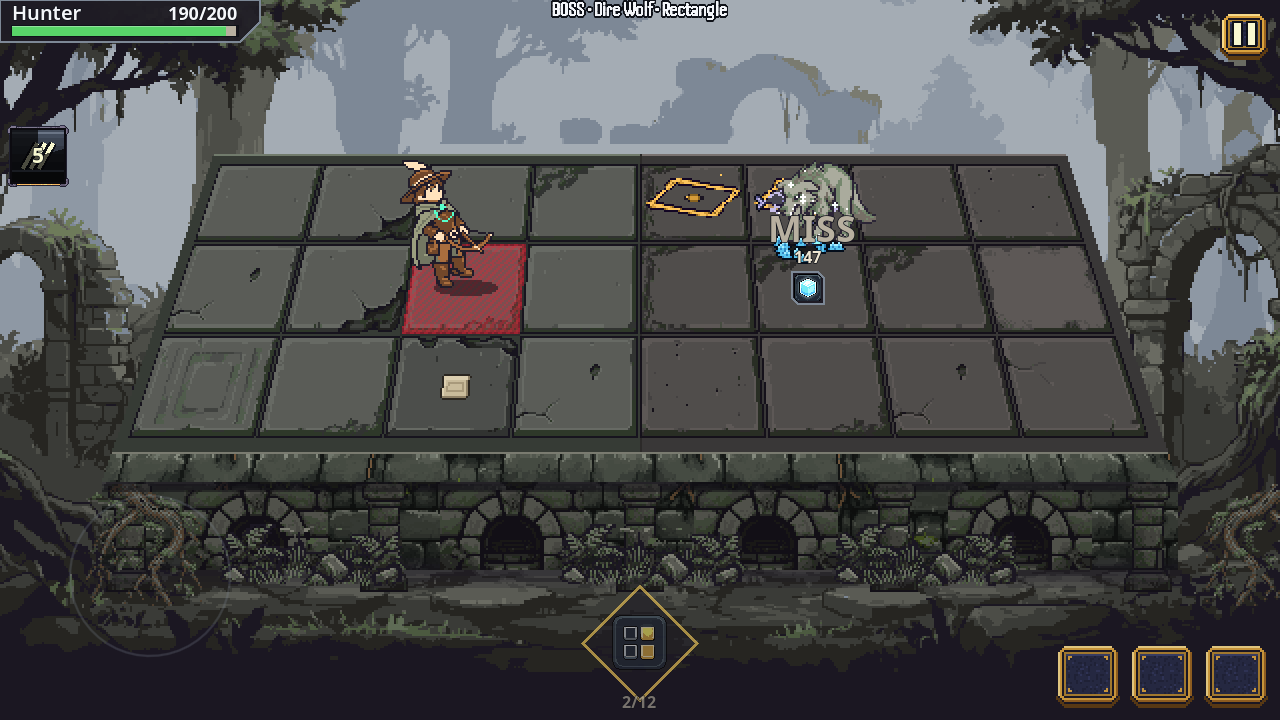
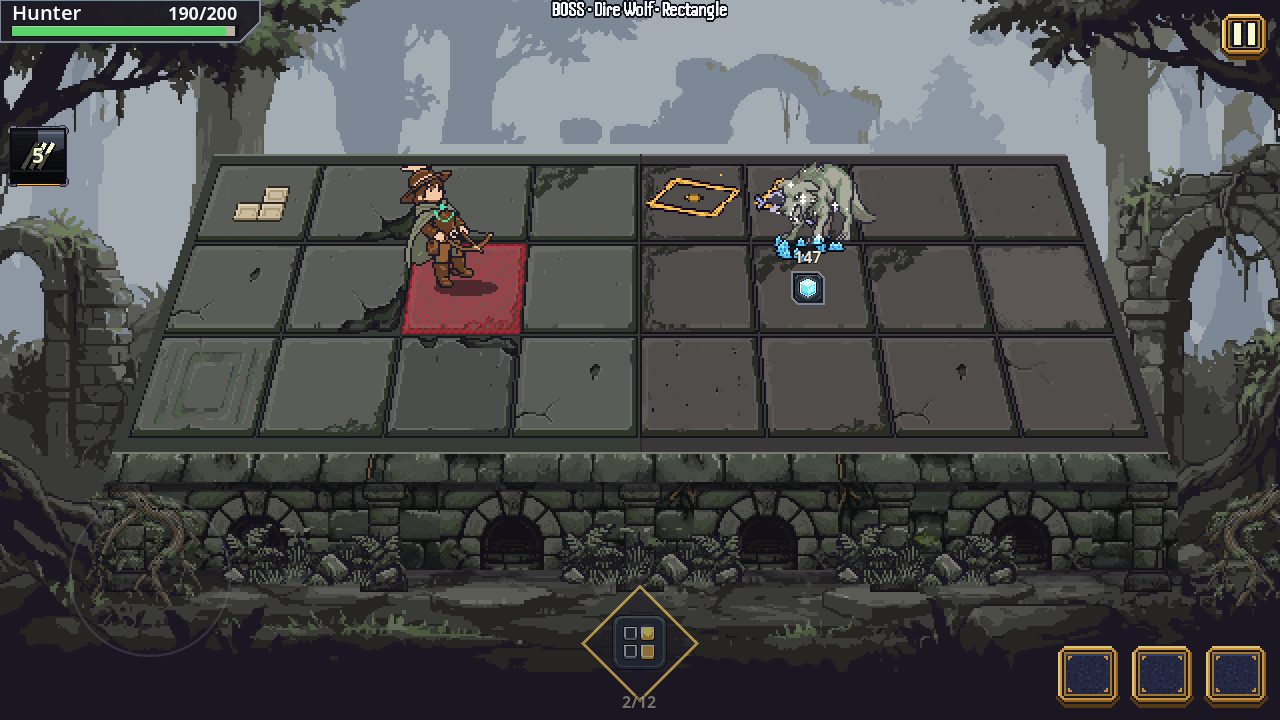
feat: Skill v2 signature forms for the batch-3 field cards
Draw jaw, spring, splinter, ward, plate, pillar and firewall in code, and keep the armed trap, ward and pillar marks on the slab.

diff --git a/docs/skill-v2/19-impact-families-v1.md b/docs/skill-v2/19-impact-families-v1.md
@@ -132,6 +132,17 @@ over a pack-owned impact (the Mage's fire) instead of being dropped with the sha
 Evidence: `production/qa/evidence/skill-v2-signature/<card>_ingame.png` (8 frames over 1.4 s) and the six rows at
 the bottom of `skill-v2-impact-families/contact_sheet_x3.png` (`signature_x3.png`).
 
+## V4-F — signature forms of the batch-3 cards (2026-11-11)
+
+Seven ImpactFx forms, same two layers: `bay_kep` **jaw**, `bay_lo` **spring**, `gai_no` **splinter**,
+`thanh_thuan` **ward**, `khien_thep` **plate**, `tuong_da` **pillar**, `hoa_tuyen` **firewall**. Wired in
+`impact_variants`. While a trap, ward or pillar is armed, `ZoneFx.marks` draws the flat object on that slab
+(`FloorDynamicLayer.zone_state`): jaws, spring plate, thorn stumps, ward frame, steel plates, stone footprint.
+`bay_lo` / `gai_no` / `khien_thep` pick their mark from the field's `skill_id` (ward and pillar data now store it,
+same as traps). No PixelLab call: V16 in `02-vfx-concepts.md` is code. Contact sheet
+`production/qa/evidence/skill-v2-signature/batch3_x3.png`. In-game frames (the armed mark, not an 8-frame strip):
+`production/qa/evidence/skill-v2-batch3/01..07.png`.
+
 ## Card → form
 
 | Family | Card | Form | Knobs |
